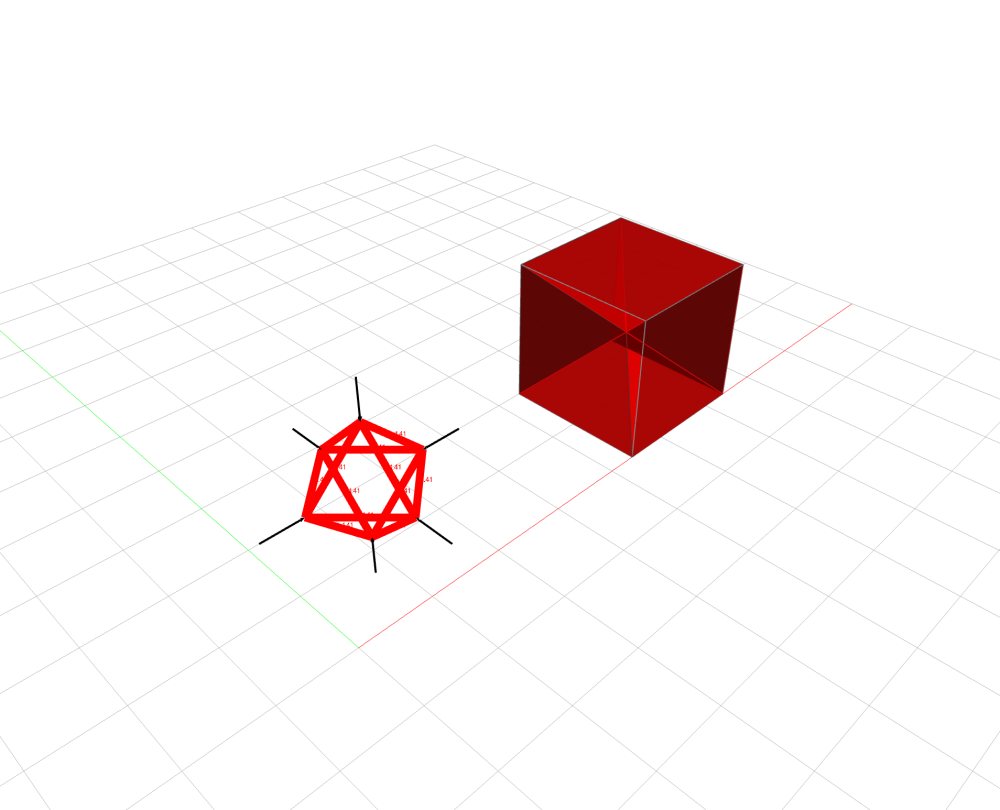
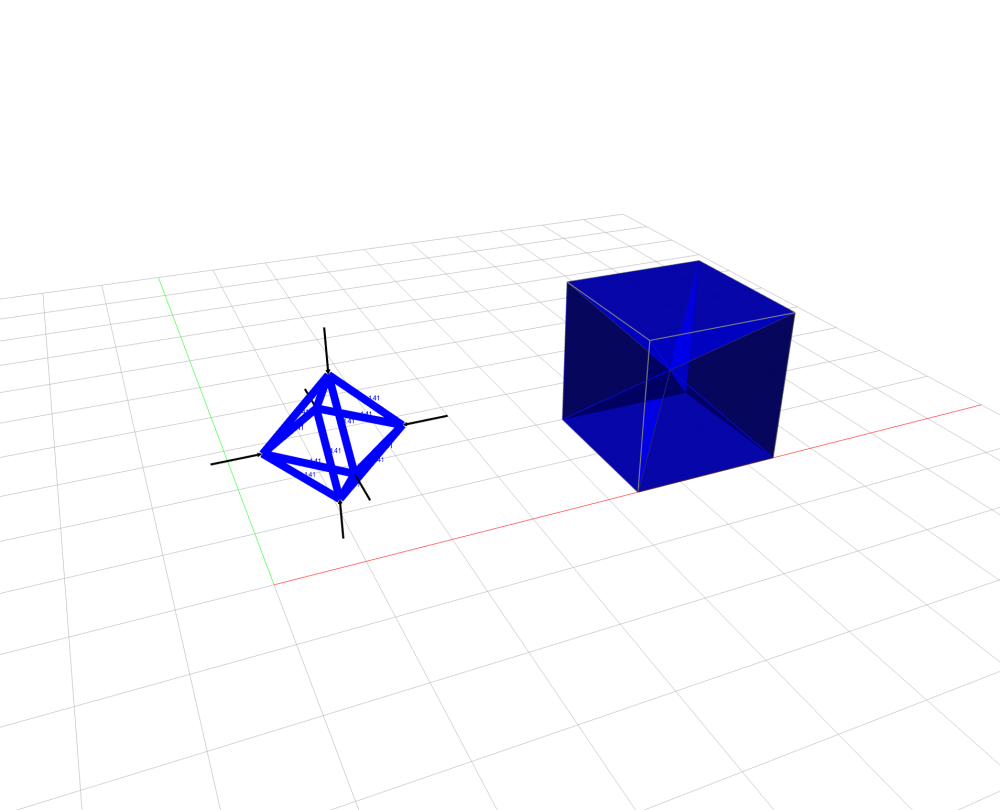
Draw compression blue and tension red

diff --git a/examples/physical_structures/20_space_truss.py b/examples/physical_structures/20_space_truss.py
@@ -133,13 +133,13 @@ for m, (i, j) in enumerate(members):
         print("  {:2d}: |N| {:.3f}   cell {}: {:.3f}   cell {}: {:.3f}".format(m, abs(N[m]), i, cells[i][0].face_area(m), j, cells[j][0].face_area(m)))
 
 # ------------------------------------------------------------------------------
-# 4. viewer: the tower (red compression, blue tension) and the node cells beside it
+# 4. viewer: the tower (blue compression, red tension) and the node cells beside it
 # ------------------------------------------------------------------------------
 
 viewer = Viewer()
 peak = max(abs(N))
 for m, (i, j) in enumerate(members):
-    color = Color.red() if N[m] < 0 else Color.blue()
+    color = Color.blue() if N[m] < 0 else Color.red()
     viewer.scene.add(Line(xyz[i], xyz[j]), linecolor=color, linewidth=1 + 5 * abs(N[m]) / peak)
     viewer.scene.add(Tag("{:+.2f}".format(N[m]), centroid_points([xyz[i], xyz[j]]), color=color, height=12))
 for s in supports:
@@ -159,7 +159,7 @@ for node, (cell, vectors) in cells.items():
         elif key in (LOAD_KEY, REACTION_KEY):
             facecolor[key] = Color.black()
         else:
-            facecolor[key] = Color.red() if N[key] < 0 else Color.blue()
+            facecolor[key] = Color.blue() if N[key] < 0 else Color.red()
     viewer.scene.add(cell, facecolor=facecolor, opacity=0.6, show_lines=True)
 
 viewer.show()

diff --git a/src/compas_3gs/viewer.py b/src/compas_3gs/viewer.py
@@ -34,8 +34,8 @@ from compas_3gs.model import GSModel
 
 __all__ = ["GSViewer"]
 
-COMPRESSION = Color.red()
-TENSION = Color.blue()
+COMPRESSION = Color.blue()
+TENSION = Color.red()
 ZERO = Color.grey()
 LOAD = Color.black()
 REACTION = Color.from_hex("#2e9e44")
@@ -48,7 +48,7 @@ class GSViewer(Viewer):
 
     Everything goes into groups of the scene tree, so that each part can be shown, hidden or removed on its own:
 
-    - `form`: `members` (red in compression, blue in tension, the width by the force), `labels` (the member forces),
+    - `form`: `members` (blue in compression, red in tension, the width by the force), `labels` (the member forces),
       `supports` (a glyph per support), `loads` (black arrows) and `reactions` (green arrows);
     - `force`: `cells`, the force polyhedron of every node, or the polyhedral force diagram.
 

diff --git a/examples/model/05_warren_truss_fem.py b/examples/model/05_warren_truss_fem.py
@@ -221,7 +221,7 @@ for u, v in form.edges():
     a = xyz[index[u]] + scale * displacements[3 * index[u] : 3 * index[u] + 3] + shift
     b = xyz[index[v]] + scale * displacements[3 * index[v] : 3 * index[v] + 3] + shift
     force = fem[(u, v)]
-    color = Color.grey() if abs(force) < 1e-9 else Color.blue() if force > 0 else Color.red()
+    color = Color.grey() if abs(force) < 1e-9 else Color.red() if force > 0 else Color.blue()
     line = viewer.scene.add(Line(a, b), parent=deflected, linecolor=color, linewidth=1.5 + 6 * abs(force) / peak, name="{}-{}".format(u, v))
     fx, fy, fz = force * form.edge_direction((u, v))
     # the same info as the 3GS members (GSViewer.member_info), with the FEM force: select a member to see it

diff --git a/tests/compas_3gs/test_viewer.py b/tests/compas_3gs/test_viewer.py
@@ -57,7 +57,7 @@ def test_add_model_form_first(viewer, tripod):
     assert len(groups["cells"].children) == 1  # the feet have no force polyhedron
     for member in groups["members"].children:
         assert isinstance(member, LineObject)
-        assert member.linecolor == Color.red()  # all legs are in compression
+        assert member.linecolor == Color.blue()  # all legs are in compression
 
 
 @pytest.mark.gui
@@ -127,7 +127,7 @@ def test_update_form_after_solving_again(viewer, tripod):
 
     for member in groups["members"].children:
         assert member.attributes["data"]["type"] == "tension"
-        assert member.linecolor == Color.blue()
+        assert member.linecolor == Color.red()
 
 
 @pytest.mark.gui

diff --git a/examples/physical_structures/30_force_first_frames.py b/examples/physical_structures/30_force_first_frames.py
@@ -105,7 +105,7 @@ for name, force, offset in cases:
     peak = max(abs(n) for n in forces.values())
     for (u, v), n in forces.items():
         a, b = add_vectors(form.node_coordinates(u), offset), add_vectors(form.node_coordinates(v), offset)
-        color = Color.blue() if n > 0 else Color.red()
+        color = Color.red() if n > 0 else Color.blue()
         viewer.scene.add(Line(a, b), linecolor=color, linewidth=1 + 6 * abs(n) / peak)
         viewer.scene.add(Tag("{:+.2f}".format(n), centroid_points([a, b]), color=color, height=14))
     for node, load in loads.items():

diff --git a/.agents/viewer.md b/.agents/viewer.md
@@ -12,7 +12,7 @@ viewer.show()
 | Call | |
 |---|---|
 | `add_model(model, labels=True, offset=None)` | everything; `offset` places the force diagram (default: beside the form along x) |
-| `add_form(form, labels=True, offset=None)` | groups `form/members, labels, supports, loads, reactions`; members red in compression, blue in tension, width by force |
+| `add_form(form, labels=True, offset=None)` | groups `form/members, labels, supports, loads, reactions`; members blue in compression, red in tension, width by force |
 | `update_form(form, groups)` | after the forces change (for example in a slider callback): recolours and resizes the members and refreshes their info; labels, loads and reactions keep their drawn state |
 | `add_cells(model, offset)` | the force polyhedron of every node of `model.cells`, scaled together, faces coloured like their members (load black, reaction green) |
 | `add_force_diagram(force, form, offset)` | a `ForceVolMesh`, one mesh per cell |

diff --git a/.agents/utilities.md b/.agents/utilities.md
@@ -7,7 +7,7 @@
 | Function | Returns |
 |---|---|
 | `get_force_mags(volmesh, network)` | `{(u, v): force}` from the face areas, with the sign from `volmesh.attributes["convention"]` (negative: compression) |
-| `get_force_colors_uv(volmesh, network, gradient=False, tol=0.001)` | `{(u, v): (r, g, b)}`, 0–255: blue compression, red tension, white zero (the 3GS convention; `GSViewer` draws compression red and tension blue) |
+| `get_force_colors_uv(volmesh, network, gradient=False, tol=0.001)` | `{(u, v): (r, g, b)}`, 0–255: blue compression, red tension, white zero (the 3GS convention, which `GSViewer` follows) |
 | `get_force_colors_hf(volmesh, network, uv_c_dict=None, gradient=False, boundary=False, tol=0.001)` | `{halfface: (r, g, b)}` |
 | `pair_hf_to_uv(volmesh, network)`, `pair_uv_to_hf(network, volmesh)` | halfface ↔ edge of the dual |
 | `get_index_colordict(key_list, color_scheme=None)` | a colour per key along a gradient |

diff --git a/docs/userguide/viewing.md b/docs/userguide/viewing.md
@@ -17,7 +17,7 @@ viewer.show()
 Every part goes into a group of the scene tree, so it can be shown or hidden on its own:
 
 - `form`
-    - `members`: red in compression, blue in tension, grey without force, thicker with a larger force;
+    - `members`: blue in compression, red in tension, grey without force, thicker with a larger force;
     - `labels`: the member forces (`add_model(model, labels=False)` leaves them out);
     - `supports`: a tetrahedron under each support, on two rollers if it restrains one direction and on a
       line along the free direction if it restrains two;

diff --git a/docs/index.md b/docs/index.md
@@ -101,7 +101,7 @@ each, a leg and a reaction, so only the apex has a polyhedron; its faces match t
 
 ![A tripod and the force polyhedron of its apex](assets/images/examples/model_01_tripod.png)
 /// caption
-The tripod in compression (red) on its pinned supports, the load (black) and the reactions (green);
+The tripod in compression (blue) on its pinned supports, the load (black) and the reactions (green);
 beside it the force polyhedron of the apex.
 ///
 

diff --git a/docs/tutorial.md b/docs/tutorial.md
@@ -108,7 +108,7 @@ viewer.show()
 
 ![The space truss and its force polyhedra](assets/images/examples/model_02_space_truss.png)
 /// caption
-Members in compression red, in tension blue, thicker with a larger force; a glyph per support; the
+Members in compression blue, in tension red, thicker with a larger force; a glyph per support; the
 force polyhedra of the nodes beside the truss.
 ///
 
